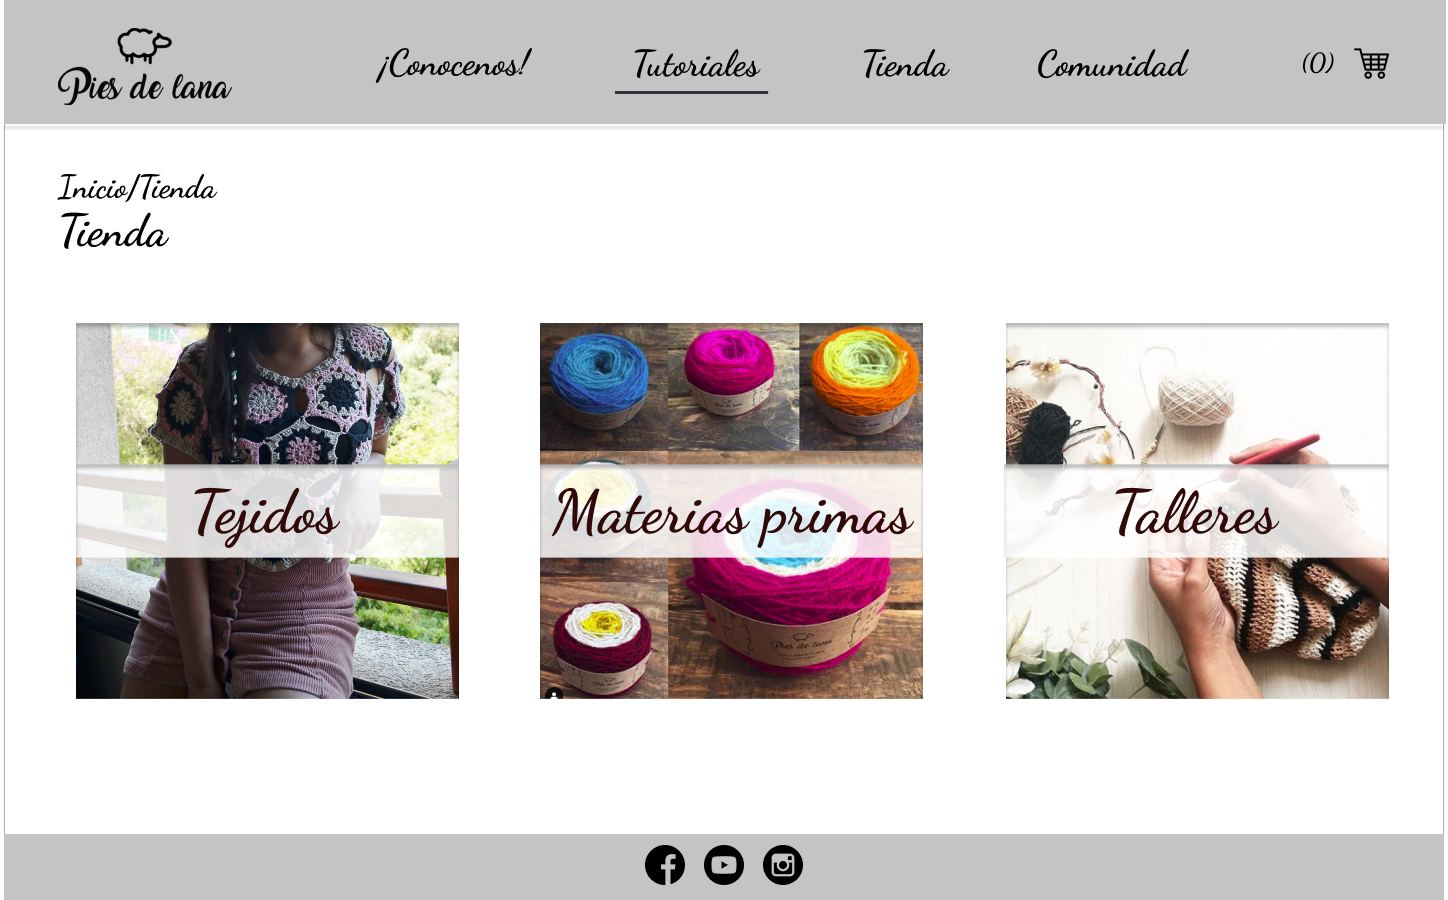
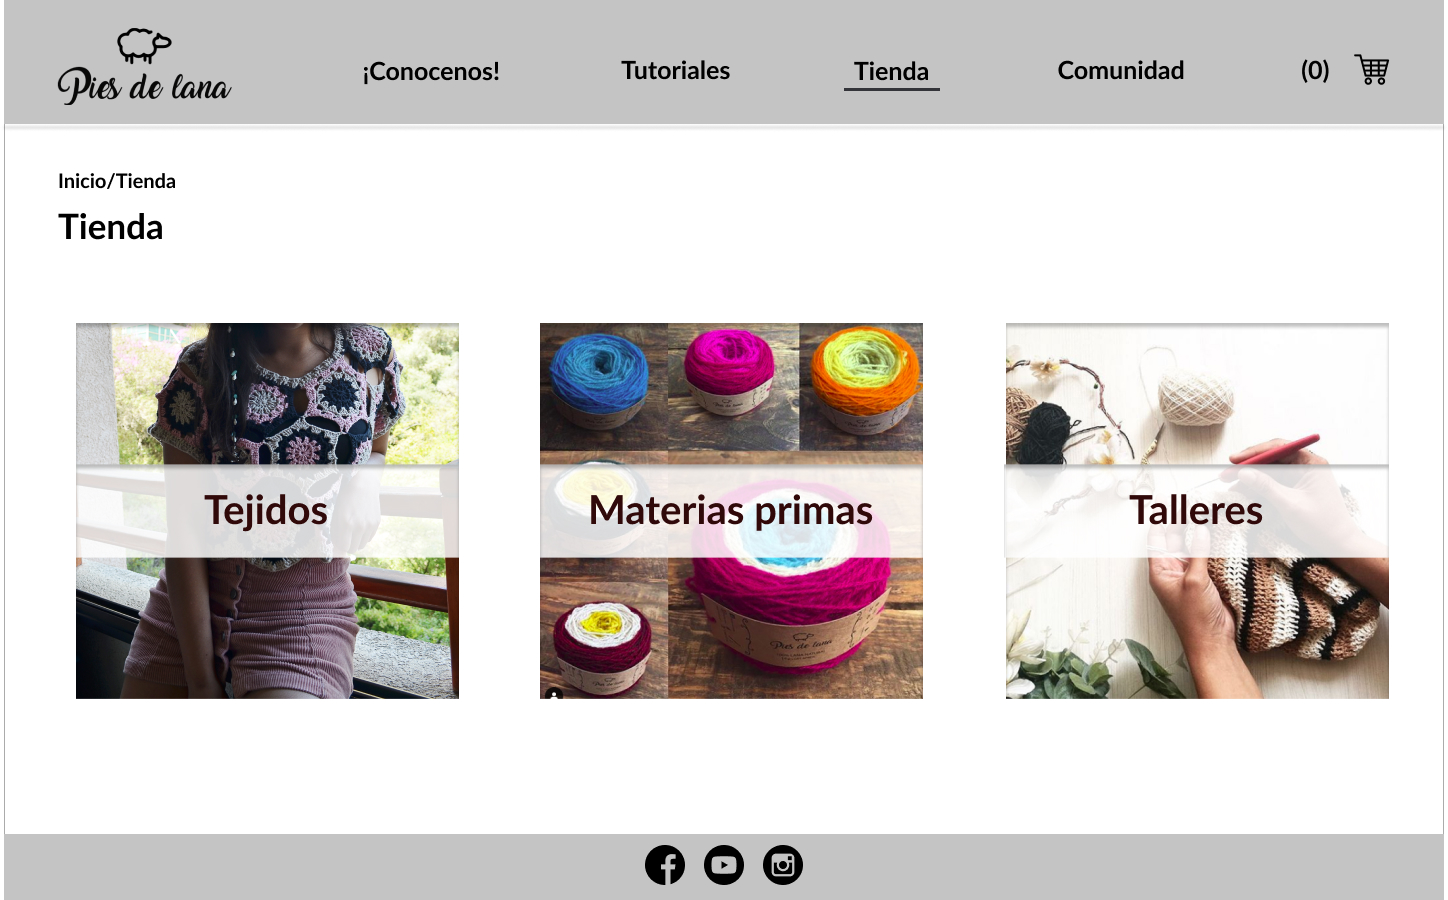
Se modifica tañamo de letra e imagenes a todos los proyectos

diff --git a/duchenne.html b/duchenne.html
@@ -63,61 +63,57 @@
     </section>
     <div class="container">
         <section>
-            <div class="proyect-title" style="padding:15px">
-                <div class="row mt-5">
-                    <h2>Contexto</h2>
-                    <p class="summary">
-                        DSG es una fundación sin fines de lucro, dedicada a facilitar y acelerar el avance de los
-                        tratamientos
-                        para niños que padecen Distrofia Muscular de Duchenne, generando recursos y espacios de
-                        desarrollo
-                        para
-                        la intervención e investigación médica que les permita avanzar en esa materia</p>
+            <div class="row mt-5" style="padding:15px">
+                <h2 class="proyect-title">Contexto</h2>
+                <p class="summary">
+                    DSG es una fundación sin fines de lucro, dedicada a facilitar y acelerar el avance de los
+                    tratamientos
+                    para niños que padecen Distrofia Muscular de Duchenne, generando recursos y espacios de
+                    desarrollo
+                    para
+                    la intervención e investigación médica que les permita avanzar en esa materia</p>
+            </div>
+            <div class="row mt-5">
+                <div class="col-4" style="padding-left:15px">
+                    <h2 class="proyect-title">Mi rol</h2>
+                    <p class="summary">Proyecto ejecutado por equipo de 4 front-end y 1 UX por lo que estuve a cargo
+                        de
+                        todo el
+                        proceso de investigación, síntesis, ideación, prototipado y testeo del producto</p>
                 </div>
-                <div class="row mt-5">
-                    <div class="col-4" style="padding-left:0px">
-                        <h2 class="proyect-title">Mi rol</h2>
-                        <p class="summary">Proyecto ejecutado por equipo de 4 front-end y 1 UX por lo que estuve a cargo
-                            de
-                            todo el
-                            proceso de investigación, síntesis, ideación, prototipado y testeo del producto</p>
-                    </div>
-                    <div class="col-1"></div>
-                    <div class="col-3">
-                        <h2 class="proyect-title">Duración</h2>
-                        <p class="summary">2 semanas</p>
-                    </div>
-                    <div class="col-4">
-                        <h2 class="proyect-title">Herramientas utilizadas</h2>
-                        <img src="img/herramientas.png" class="img-fluid" alt="Responsive image">
-                    </div>
+                <div class="col-1"></div>
+                <div class="col-3">
+                    <h2 class="proyect-title">Duración</h2>
+                    <p class="summary">2 semanas</p>
+                </div>
+                <div class="col-4">
+                    <h2 class="proyect-title">Herramientas utilizadas</h2>
+                    <p class="summary">Lápiz y papel - post-it -
+                        Google Drive - Trello - Figma - Loom
+                    </p>
                 </div>
             </div>
         </section>
 
         <section>
-            <div class="proyect-title" style="padding:15px">
-                <div class="row mt-3">
-                    <h2>Desafío</h2>
-                    <p class="summary">Lograr que la plataforma solicitada contenga información muy clara y precisa
-                        sobre
-                        la
-                        enfermedad, que logre generar conciencia sobre la importancia de la
+            <div class="row mt-5" style="padding:15px">
+                <h2 class="proyect-title">Desafío</h2>
+                <blockquote class="blockquote">
+                    <p class="summary1">Lograr informar sobre a enfermedad de Duchenne, generar conciencia sobre la
+                        importancia de la
                         investigación médica y con esto impulsar a la donación de recursos para financiarla, esto
                         último, es el principal enfoque de la fundación</p>
-                </div>
+                </blockquote>
             </div>
         </section>
 
         <section>
-            <div class="proyect-title" style="padding:15px">
-                <div class="row mt-4">
-                    <h2>Proceso de diseño</h2>
-                </div>
-                <div class="row mt-3">
-                    <div class="col-md-12 col-md-offset-3">
-                        <img src="img/design.jpg" class="img-fluid proceso" alt="Responsive image">
-                    </div>
+            <div class="row mt-1" style="padding:15px">
+                <h2 class="proyect-title">Proceso de diseño</h2>
+            </div>
+            <div class="row mt-3">
+                <div class="col-md-12 col-md-offset-3">
+                    <img src="img/design.jpg" class="img-fluid proceso" alt="Responsive image">
                 </div>
             </div>
         </section>
@@ -138,16 +134,18 @@
                 <div class="col-6">
                     <p>
                         <ul>
-                            <li>En la mayoría de los sitios, en inicio hay información muy clara sobre la
-                                enfermedad,
+                            <li>En la mayoría de los sitios, en inicio hay <strong>información muy clara sobre la
+                                    enfermedad,</strong>
                                 síntomas, diagnóstico etc</li><br>
-                            <li>En todos se da a conocer la misión de la organización/fundación y el equipo que la
+                            <li>En todos se da a conocer la <strong>misión de la organización/fundación</strong> y el
+                                equipo que la
                                 compone, esto logra generar una “cercanía” al leer esa sección</li><br>
-                            <li>En la arquitectura de información se le da mucho énfasis a la acción de hacerse
-                                socio,
-                                donar, cómo hacerlo, a qué equivale la donación entre otros</li><br>
-                            <li>Existe sección de transparencia donde se informa dinero recaudado, destino de
-                                fondos,
+                            <li>En la arquitectura de información se le da mucho énfasis a la <strong>acción de hacerse
+                                    socio,
+                                    donar,</strong> cómo hacerlo, a qué equivale la donación entre otros</li><br>
+                            <li>Existe sección de <strong>transparencia</strong> donde se informa dinero recaudado,
+                                <strong>destino de
+                                    fondos,</strong>
                                 que
                                 investigaciones se han financiado con donaciones etc.</li>
                         </ul>
@@ -174,11 +172,11 @@
                 <div class="col-4">
                     <p>
                         <ul>
-                            <li>Organizar de la mejor manera la información de la enfermedad para que quede clara a
+                            <li><strong>Organizar</strong> de la mejor manera la <strong>información de la enfermedad</strong> para que quede clara a
                                 primera vista</li><br>
-                            <li>Lograr la manera de generar impacto a través de la página y esto incentive a los
-                                usuarios a donar</li><br>
-                            <li>Buscar la forma de transparentar el destino de los fondos recaudados</li>
+                            <li>Lograr la manera de <strong>generar impacto</strong> a través de la página e <strong>incentivar a los
+                                usuarios a donar</strong></li><br>
+                            <li>Buscar la forma de <strong>transparentar el destino de los fondos recaudados</strong></li>
                         </ul>
                     </p>
                 </div>
@@ -232,13 +230,13 @@
 
     <script src="https://code.jquery.com/jquery-3.3.1.slim.min.js"
         integrity="sha384-q8i/X+965DzO0rT7abK41JStQIAqVgRVzpbzo5smXKp4YfRvH+8abtTE1Pi6jizo" crossorigin="anonymous">
-    </script>
+        </script>
     <script src="https://cdnjs.cloudflare.com/ajax/libs/popper.js/1.14.7/umd/popper.min.js"
         integrity="sha384-UO2eT0CpHqdSJQ6hJty5KVphtPhzWj9WO1clHTMGa3JDZwrnQq4sF86dIHNDz0W1" crossorigin="anonymous">
-    </script>
+        </script>
     <script src="https://stackpath.bootstrapcdn.com/bootstrap/4.3.1/js/bootstrap.min.js"
         integrity="sha384-JjSmVgyd0p3pXB1rRibZUAYoIIy6OrQ6VrjIEaFf/nJGzIxFDsf4x0xIM+B07jRM" crossorigin="anonymous">
-    </script>
+        </script>
 </body>
 
 </html>

diff --git a/americasolidaria.html b/americasolidaria.html
@@ -94,7 +94,7 @@
                 </div>
                 <div class="col-4">
                     <h2 class="proyect-title">Herramientas utilizadas</h2>
-                    <p class="summary">Lápiz y papel - post-it - Google Drive - Trello - Figma</p>
+                    <p class="summary">Lápiz y papel - post-it - Google Drive - Trello - Figma - FreeHand</p>
                 </div>
             </div>
         </section>
@@ -252,11 +252,7 @@
                     otra parte una sección de "bolsa de trabajo" donde las ofertas laborales están divididas por
                     áreas
                     de
-                    interés. Esta propuesta permitirá que haya más interacción en la comunidad y que los ex
-                    voluntarios
-                    se
-                    mantengan interesados y comprometidos, participando de manera activa como
-                    embajadores de América Solidaria </p>
+                    interés.</p>
             </div>
             <div class="row mt-3">
                 <div class="col-md-12 col-md-offset-3">
@@ -265,6 +261,11 @@
             </div>
         </section>
     </div>
+ 
+    <section>
+        <div class="row mt-5"></div>
+        <img src="img/conclusionesas.jpg" class="img-fluid" alt="Responsive image">
+    </section><br><br>
 
     <div class="container">
         <div class="row mt-4">

diff --git a/piesdelana.html b/piesdelana.html
@@ -168,7 +168,7 @@
             <div class="row mt-5" style="padding:15px">
                 <h2 class="proyect-title">Proceso de síntesis</h2>
             </div>
-            <div class="row mt-1" style="padding:15px">
+            <div class="row mt-1" style="padding-left:15px">
                 <h5>User Persona</h5>
                 <p class="summary">En base a la investigación y las entrevistas realizadas a diversas clientas de la
                     tienda
@@ -176,7 +176,7 @@
                     recopilamos y agrupamos la información y creamos persona figurativa que representa las
                     necesidades que enfrentan los usuarios</p>
             </div>
-            <div class="row mt-3">
+            <div class="row mt-4">
                 <div class="col-md-6 col-md-offset-3">
                     <img src="img/userpdl.jpg" class="img-fluid imagen" alt="Responsive image">
                 </div>

diff --git a/css/style.css b/css/style.css
@@ -203,7 +203,9 @@ p {
 .proyect-title {
   font-family: 'Rubik', sans-serif;
   color: #8F2161;
-  font-size: 2rem;
+  font-size: 1.5rem;
+  text-transform: uppercase;
+  font-weight: 450;
 }
 
 
@@ -223,7 +225,7 @@ p {
 
 .summary1 {
   font-family: 'Rubik', sans-serif;
-  font-size: 20px;
+  font-size: 15px;
   font-weight: 400px;
   color: #4d4d4d;
   text-align: center;
@@ -743,7 +745,7 @@ body .navbar-b .dropdown-menu .dropdown-item:hover {
 }
 
 .summary1 {
-  font-size: 30px;
+  font-size: 25px;
 }
 
 .imagen {

diff --git a/airkeep.html b/airkeep.html
@@ -167,7 +167,7 @@
                         style="padding-top:65px">
                 </div>
                 <div class="col-7">
-                    <h2 class=" proyect-title">Testeo de usabilidad</h2>
+                    <h2 class=" proyect-title" style="padding-top: 40px;">Testeo de usabilidad</h2>
                     <div class="row mt-2"></div>
                     <p class="summary">Lo primero fue instalar la herramienta hotjar en la plataforma, para identificar
                         a través de un
